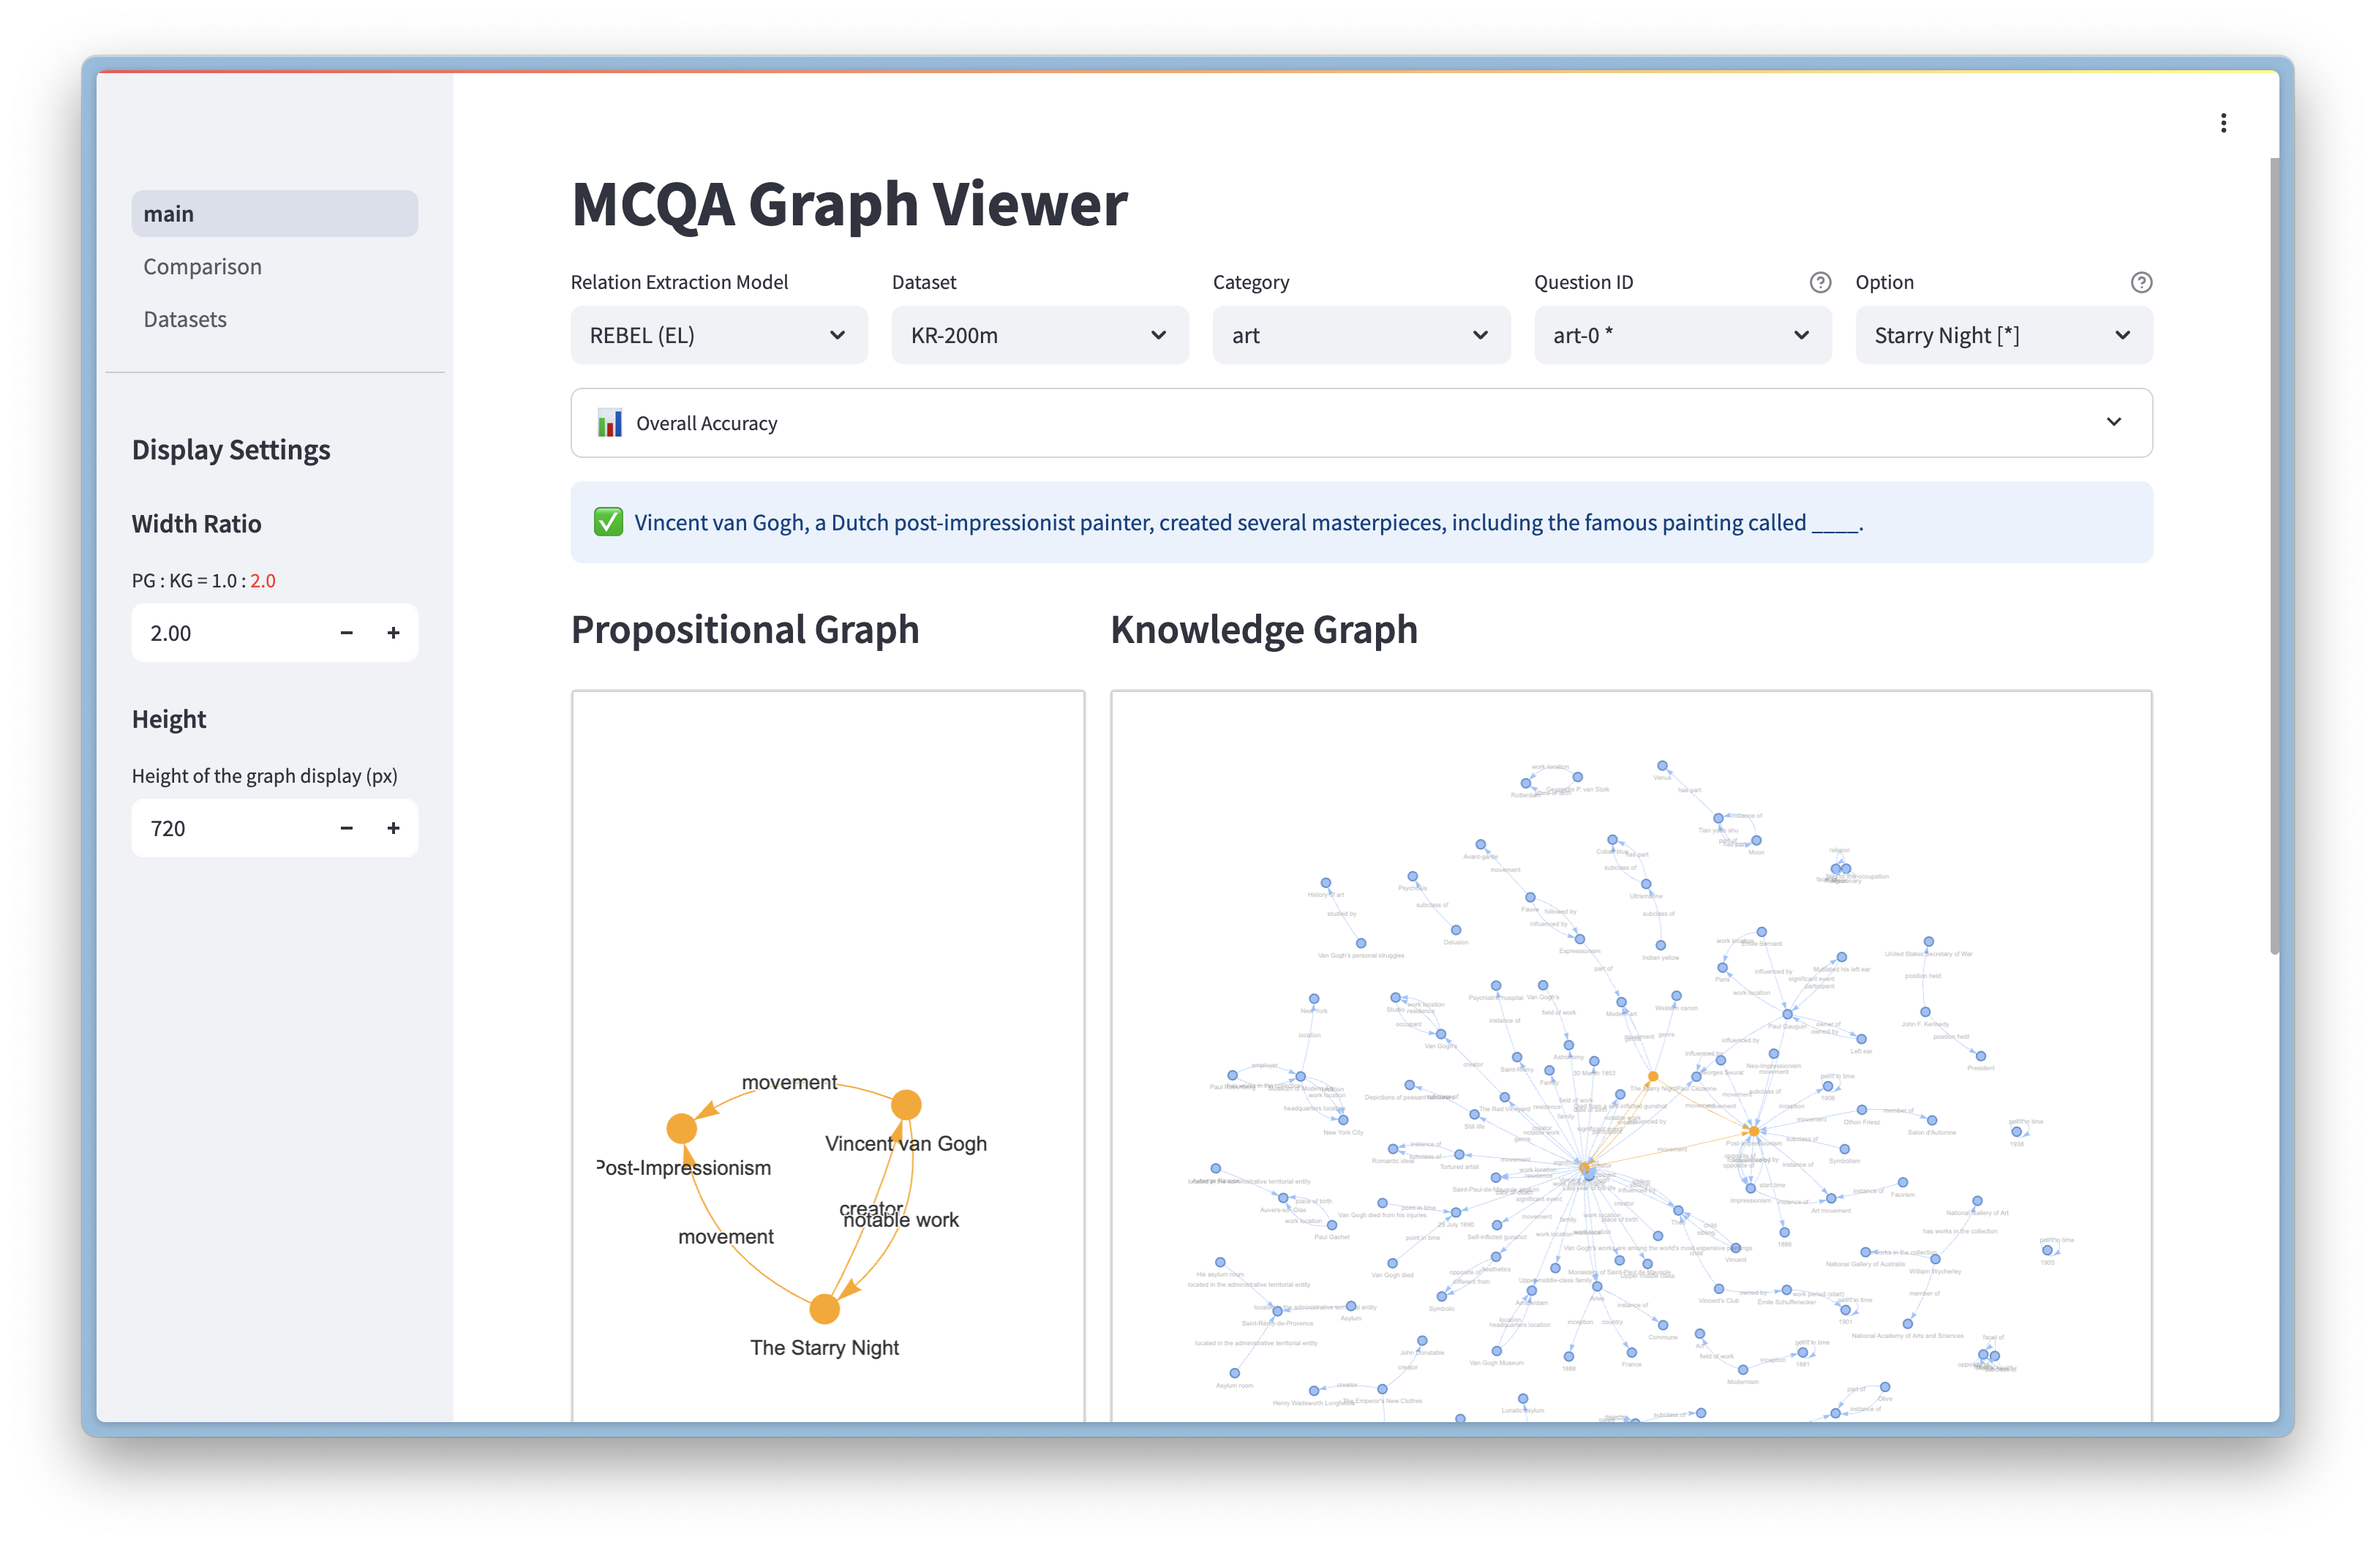
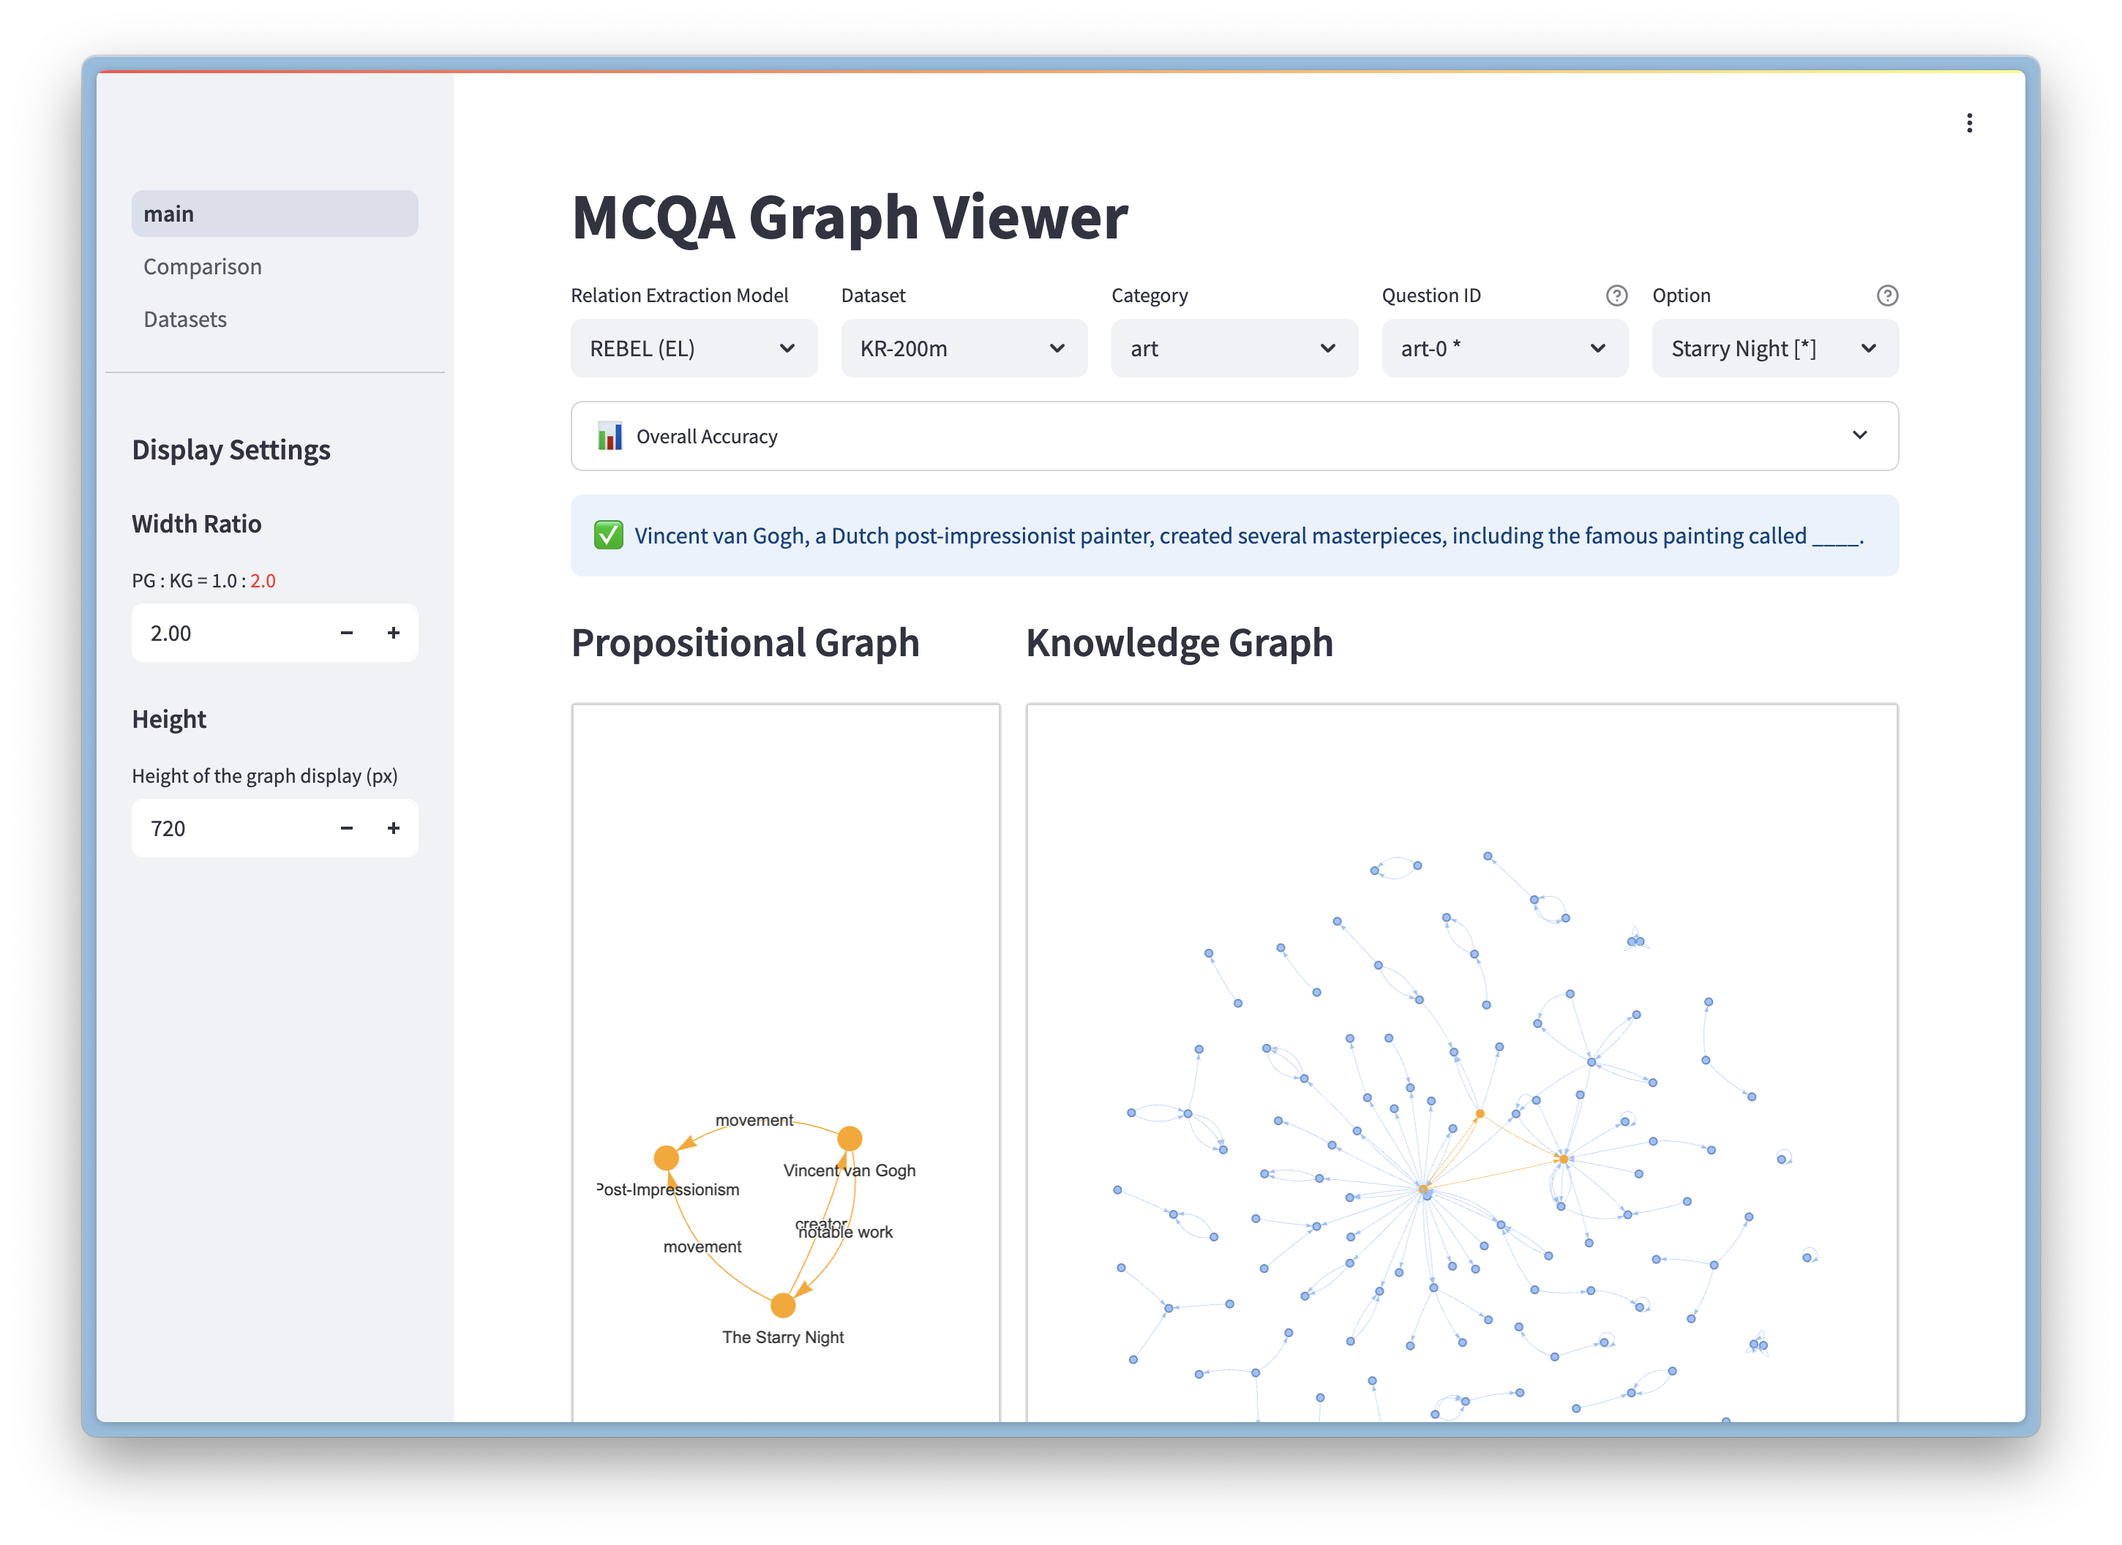
swapped app image

diff --git a/README.md b/README.md
@@ -6,9 +6,9 @@
 
 This repository contains:
 
-1. Python scripts for the answering experiment using the proposed method
+1. Python scripts for the answering experiment
 1. Original MCQ datasets
-1. Simple web application for visualizing the results
+1. Streamlit app for visualizing the results
 
 ![Appearance of the web application](assets/app-appearance.png)
 
